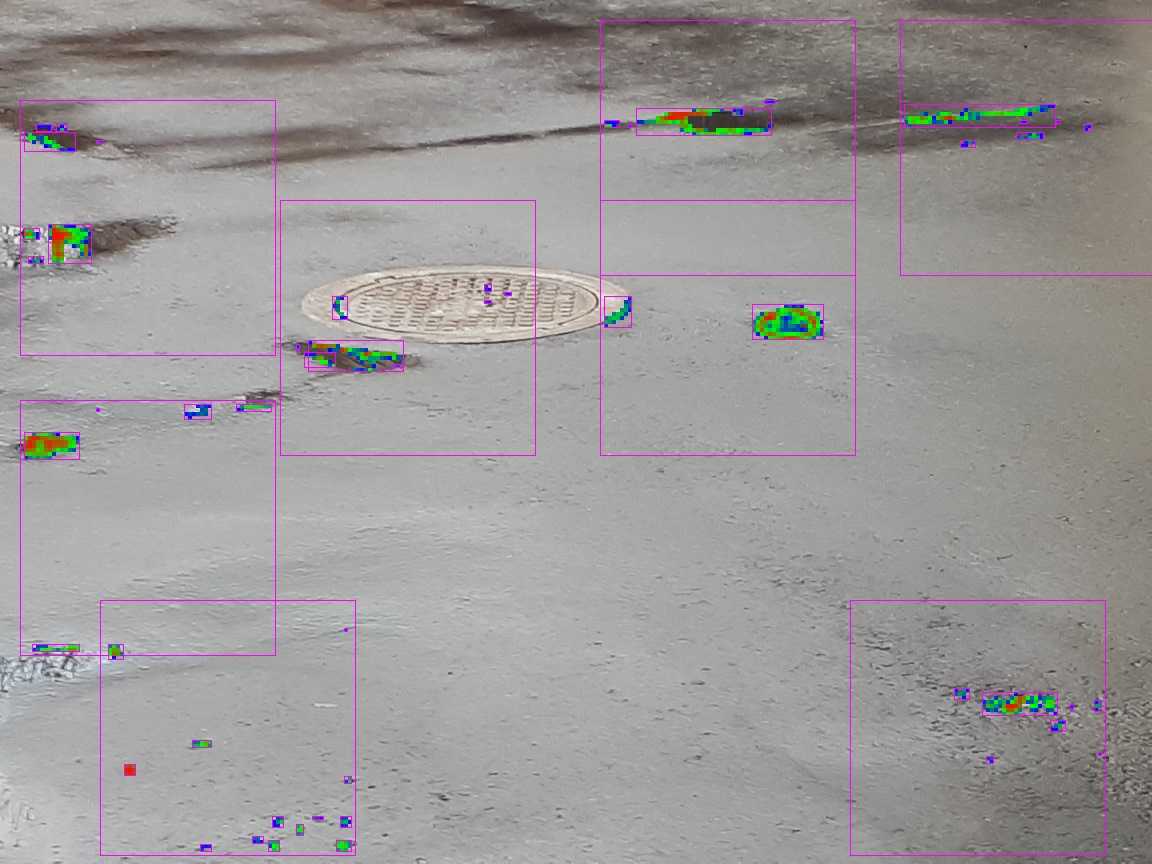
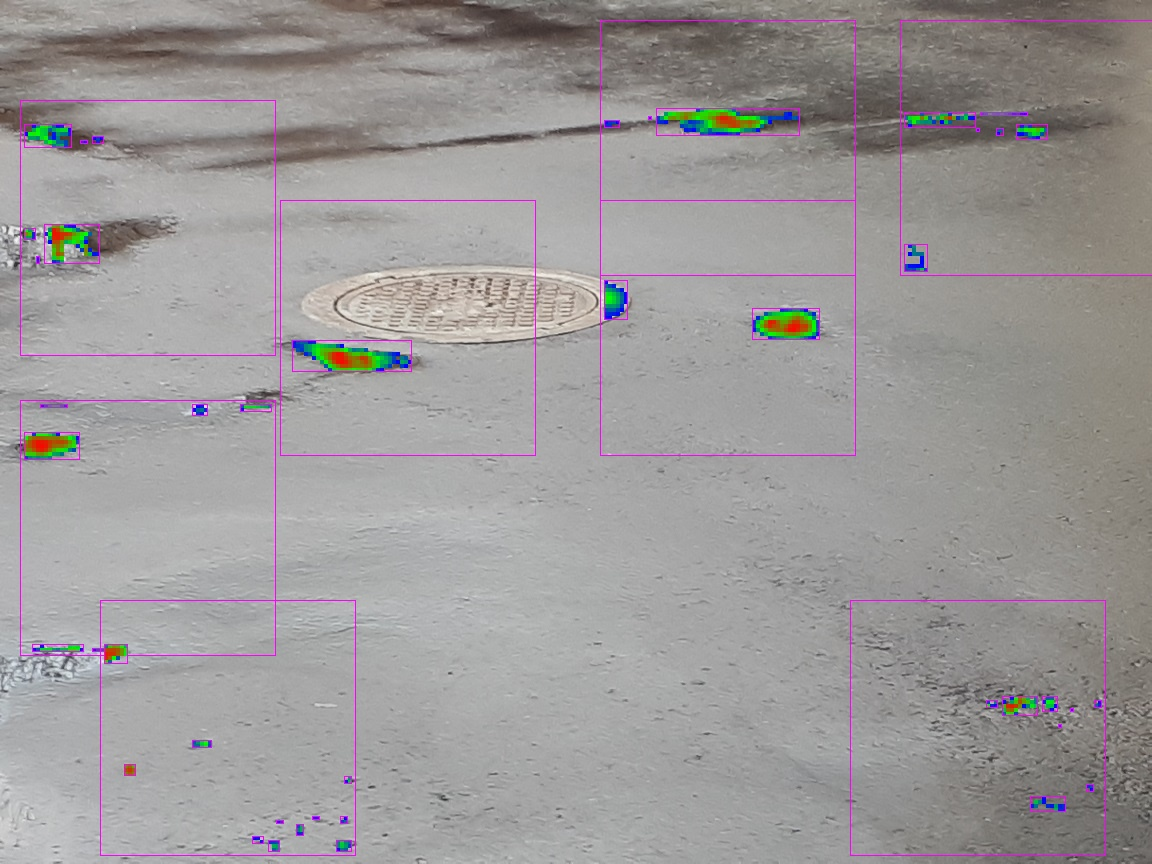
tiny improvement

diff --git a/anomalies-detecting.cpp b/anomalies-detecting.cpp
@@ -148,11 +148,16 @@ cv::Mat OffsetImage(const cv::Mat &image, int xoffset, int yoffset, int coeff, c
 
 enum { DIMENSION = 3 };
 
-enum { ADDITIONAL = 0 };
+enum { ADDITIONAL = 1 };
 
 enum { NUM_ATTRIBUTES = DIMENSION * DIMENSION + ADDITIONAL };
 
 typedef float AttributeType;
+
+float getBrightnessValue(float param)
+{
+    return  param / 200.;
+}
 
 class PointsProvider
 {
@@ -181,11 +186,14 @@ public:
     //  "if/else's" are actually solved at compile time.
     float kdtree_get_pt(const size_t idx, const size_t dim) const
     {
+        const double coeff = get_coeff(idx);
+
+        if (dim == 0)
+            return getBrightnessValue(coeff);
+
         uint32_t x, y;
         get_x_y(idx, x, y);
 
-        const double coeff = get_coeff(idx);
-        
         const double v = do_kdtree_get_pt(x, y, dim);
 
         return v / coeff;
@@ -340,7 +348,11 @@ MapType GenerateMap(const Mat& curGray)
                     const auto coeff = sqrt(sq_sum);
                     for (auto& v : pos)
                         v /= coeff;
+
+                    pos[0] = getBrightnessValue(coeff);
                 }
+                else
+                    pos[0] = getBrightnessValue(0);
 
                 for (unsigned int bufSize = NTH_RESULT_INDEX + 4;; bufSize *= 2)
                 {
